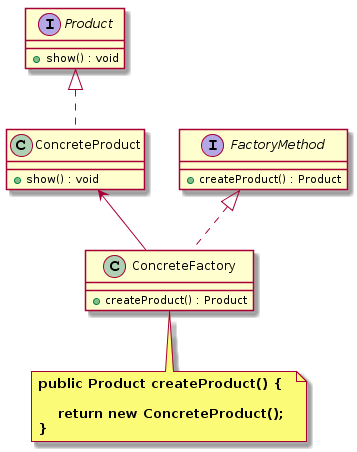
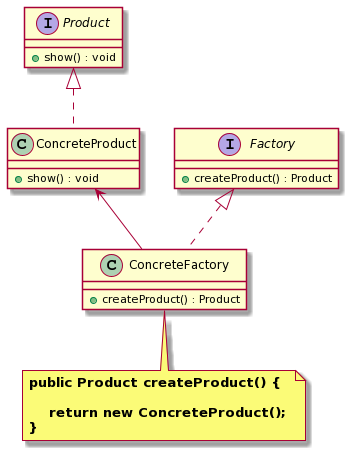
update

diff --git a/Codes/design-pattern/src/main/java/com/dj/pattern/simpleFactory/TestClient.java b/Codes/design-pattern/src/main/java/com/dj/pattern/simpleFactory/TestClient.java
@@ -1,8 +1,14 @@
 package com.dj.pattern.simpleFactory;
 
+import javax.crypto.Cipher;
+import javax.crypto.KeyGenerator;
+import javax.crypto.NoSuchPaddingException;
+import java.security.NoSuchAlgorithmException;
+import java.text.DateFormat;
+
 public class TestClient {
 
-	public static void main(String[] args) {
+	public static void main(String[] args) throws NoSuchAlgorithmException, NoSuchPaddingException {
 		Product product = null;
 		/*int type = 1;
 		if (type == 1) {
@@ -14,5 +20,12 @@ public class TestClient {
 		SimpleFactory simpleFactory = new SimpleFactory();
 		product = simpleFactory.createProduct(1);
 		product.show();
+
+		// Java加密技术，获取不同加密算法的密钥生成器
+		KeyGenerator keyGen = KeyGenerator.getInstance("DESede");
+
+		// 创建密码器
+		Cipher cp = Cipher.getInstance("DESede");
+
 	}
 }

diff --git a/Codes/design-pattern/src/main/java/com/dj/pattern/factoryMethod/TestClient.java b/Codes/design-pattern/src/main/java/com/dj/pattern/factoryMethod/TestClient.java
@@ -2,12 +2,15 @@ package com.dj.pattern.factoryMethod;
 
 import com.dj.pattern.simpleFactory.Product;
 
+import java.net.URLConnection;
+
 public class TestClient {
 
 	public static void main(String[] args) {
 		try {
+			// 具体工厂对象可以注入到Spring中，由Spring容器管理
 			Class<?> c = Class.forName("com.dj.pattern.factoryMethod.ConcreteFactoryA");
-			FactoryMethod  factory = (FactoryMethod)c.newInstance();
+			Factory factory = (Factory)c.newInstance();
 			Product product = factory.createProduct();
 			product.show();
 		} catch (ClassNotFoundException e) {
@@ -17,6 +20,8 @@ public class TestClient {
 		} catch (IllegalAccessException e) {
 			e.printStackTrace();
 		}
+
+		URLConnection
 		
 	}
 }

diff --git a/Codes/design-pattern/src/main/java/com/dj/pattern/singleton/TestSerializeSingleton.java b/Codes/design-pattern/src/main/java/com/dj/pattern/singleton/TestSerializeSingleton.java
@@ -29,11 +29,7 @@ public class TestSerializeSingleton {
 			ois = new ObjectInputStream(fis);
 			SerializeSingleton rSingleton = (SerializeSingleton) ois.readObject();
 			System.out.println("反序列化 hashCode: "+rSingleton.hashCode());
-		} catch (FileNotFoundException e) { 
-			e.printStackTrace();
-		} catch (IOException e) { 
-			e.printStackTrace();
-		} catch (ClassNotFoundException e) {
+		} catch (Exception e) {
 			e.printStackTrace();
 		}finally {
 			try {

diff --git a/Codes/design-pattern/src/main/java/com/dj/pattern/factoryMethod/ConcreteFactoryA.java b/Codes/design-pattern/src/main/java/com/dj/pattern/factoryMethod/ConcreteFactoryA.java
@@ -3,7 +3,7 @@ package com.dj.pattern.factoryMethod;
 import com.dj.pattern.simpleFactory.ConcreteProductA;
 import com.dj.pattern.simpleFactory.Product;
 
-public class ConcreteFactoryA implements FactoryMethod {
+public class ConcreteFactoryA implements Factory {
 
 	@Override
 	public Product createProduct() {

diff --git a/Codes/design-pattern/src/main/java/com/dj/pattern/factoryMethod/ConcreteFactoryB.java b/Codes/design-pattern/src/main/java/com/dj/pattern/factoryMethod/ConcreteFactoryB.java
@@ -3,7 +3,7 @@ package com.dj.pattern.factoryMethod;
 import com.dj.pattern.simpleFactory.ConcreteProductB;
 import com.dj.pattern.simpleFactory.Product;
 
-public class ConcreteFactoryB implements FactoryMethod {
+public class ConcreteFactoryB implements Factory {
 
 	@Override
 	public Product createProduct() {

diff --git a/Codes/design-pattern/src/main/java/com/dj/pattern/observer/WeatherData.java b/Codes/design-pattern/src/main/java/com/dj/pattern/observer/WeatherData.java
@@ -15,7 +15,7 @@ public class WeatherData implements Subject {
 	private float pressure;
 
 	public WeatherData() {
-		observers = new ArrayList<>();
+		observers = new ArrayList<>(10);
 	}
 
 	public void setMeasurements(float temperature, float humidity, float pressure) {

diff --git a/Codes/design-pattern/src/main/java/com/dj/pattern/factoryMethod/Factory.java b/Codes/design-pattern/src/main/java/com/dj/pattern/factoryMethod/Factory.java
@@ -10,7 +10,7 @@ import com.dj.pattern.simpleFactory.Product;
  * @date 2018年7月13日
  *
  */
-public interface FactoryMethod {
+public interface Factory {
 	
 	Product createProduct();
 }

diff --git a/notes/单例模式的逆向思考.md b/notes/单例模式的逆向思考.md
@@ -1,0 +1,130 @@
+中介者模式（`Mediator Pattern`）
+====================
+### **意图**
+> 定义一个中介对象来封装一系列对象之间的交互，使原有对象之间的耦合松散，且可以独立地改变它们之间的交互。
+
+中介者模式又叫调停模式，是迪米特法则的典型应用。
+
+### **动机**
+在现实生活中，常常会出现好多对象之间存在复杂的交互关系，这种交互关系常常是“网状结构”，它要求每个对象都必须知道它需要交互的对象。例如，每个人必须记住他（她）所有朋友的电话；而且，朋友中如果有人的电话修改了，他（她）必须告诉其他所有的朋友修改，这叫作“牵一发而动全身”，非常复杂。
+
+如果把这种“网状结构”改为“星形结构”的话，将大大降低它们之间的“耦合性”，这时只要找一个“中介者”就可以了。如前面所说的“每个人必须记住所有朋友电话”的问题，只要在网上建立一个每个朋友都可以访问的“通信录”就解决了。这样的例子还有很多，例如，你刚刚参力口工作想租房，可以找“房屋中介”。
+
+### **适用性**
+中介者模式通常适用于如下场景：
+- 当对象之间存在复杂的网状结构关系而导致依赖关系混乱且难以复用时。
+- 当想创建一个运行于多个类之间的对象，又不想生成新的子类时。
+
+### **结构**
+<div align="center"> <img src="images/37.mediator.png" width="480px"> </div><br>
+
+### **实现**
+```java
+// 抽象中介者
+public abstract class Mediator {
+	// 注册
+	public abstract void register(Colleague colleague);
+
+	// 转发
+	public abstract void relay(Colleague colleague);
+}
+
+// 具体中介者
+public class ConcreteMediator extends Mediator {
+
+	private List<Colleague> colleagues = new ArrayList<Colleague>();
+
+	@Override
+	public void register(Colleague colleague) {
+		if (!colleagues.contains(colleague)) {
+			colleagues.add(colleague);
+			colleague.setMedium(this);
+		}
+	}
+
+	@Override
+	public void relay(Colleague colleague) {
+		for (Colleague ob : colleagues) {
+			if (!ob.equals(colleague)) {
+				ob.receive();
+			}
+		}
+	}
+
+}
+
+//抽象同事类
+public abstract class Colleague {
+
+	protected Mediator mediator;
+
+	public void setMedium(Mediator mediator) {
+		this.mediator = mediator;
+	}
+
+	public abstract void receive();
+
+	public abstract void send();
+}
+
+// 具体同事类A
+public class ConcreteColleagueA extends Colleague {
+
+	@Override
+	public void receive() {
+		System.out.println("具体同事类A 接收到了请求。。。");
+	}
+
+	@Override
+	public void send() {
+		System.out.println("具体同事类A 发出了请求。。。");
+		// 请中介者转发
+		mediator.relay(this);
+	}
+
+}
+
+// 具体同事类B
+public class ConcreteColleagueB extends Colleague {
+
+	@Override
+	public void receive() {
+		System.out.println("具体同事类B 接收到了请求。。。");
+	}
+
+	@Override
+	public void send() {
+		System.out.println("具体同事类B 发出了请求。。。");
+		// 请中介者转发
+		mediator.relay(this);
+	}
+
+}
+
+// 测试客户端
+public class TestClient {
+
+	public static void main(String[] args) {
+		Mediator mediator = new ConcreteMediator();
+		ConcreteColleagueA colleagueA = new ConcreteColleagueA();
+		ConcreteColleagueB colleagueB = new ConcreteColleagueB();
+		mediator.register(colleagueA);
+		mediator.register(colleagueB);
+		colleagueA.send();
+		colleagueB.send();
+
+	}
+}
+```
+### **应用**
+- All scheduleXXX() methods of java.util.Timer
+- java.util.concurrent.Executor#execute()
+- submit() and invokeXXX() methods of  
+- java.util.concurrent.ExecutorService
+- java.util.concurrent.ScheduledExecutorService
+- java.lang.reflect.Method#invoke()
+
+### **联系**
+    描述此模式和其他模式之间的关系。
+
+

diff --git a/notes/13.工厂方法模式.md b/notes/13.工厂方法模式.md
@@ -1,9 +1,7 @@
 工厂方法模式（`Factory Method Pattern`）
 ====================
 ### **意图**
-> 定义了一个创建对象的接口，但由子类决定要实例化的类是哪一个。工厂方法让类把实例化**推迟**到子类。
-
-编写工厂类时不需要知道实际创建的产品是哪一个，选择了使用哪个子类，自然就决定了实际创建的产品是什么。
+> 工厂父类定义了创建产品对象的公共接口，而工厂子类负责生成具体的产品对象。工厂方法让类把实例化**推迟**到子类，由工厂子类来确定实例化哪一个具体产品类。
 
 ### **动机**
  在不修改具体工厂类的情况下引进新的产品，如果出现新的产品类型，只需要为这种新的产品创建一个具体的工厂类就可以获得该新产品的实例。这样可以将产品的“实现”从“使用”中解耦，相对于简单工厂模式更加符合“开闭原则”。
@@ -18,7 +16,6 @@
 <div align="center"> <img src="images/13.factoryMethod.png" width="280px"> </div><br>
 
 ### **实现**
-
 ```java
 // 抽象产品
 public interface Product {
@@ -33,11 +30,11 @@ public class ConcreteProductA implements Product {
     }
 }
 // 抽象工厂
-public interface FactoryMethod {	
+public interface Factory {	
 	Product createProduct();
 }
 // 具体工厂
-public class ConcreteFactoryA implements FactoryMethod {
+public class ConcreteFactoryA implements Factory {
 	@Override
 	public Product createProduct() {
 		System.out.println("具体工厂A，new了一个具体产品A");
@@ -45,10 +42,10 @@ public class ConcreteFactoryA implements FactoryMethod {
 	}
 }
 
-
 // 测试客户端
 public class TestClient {
     public static void main(String[] args) throws Exception {
+        // 具体工厂对象可以注入到Spring中，由Spring容器管理
         Class<?> c = Class.forName("com.dj.pattern.factoryMethod.ConcreteFactoryA");
         FactoryMethod  factory = (FactoryMethod)c.newInstance();
         Product product = factory.createProduct();
@@ -59,7 +56,7 @@ public class TestClient {
 ### **应用**
 
 
-### **联系**
-    简单工厂把全部的产品类，在一个工厂类中处理，而工厂方法是创建了一个框架，让具体的子工厂生产相应的产品，新增产品时，只需要增加对应的工厂，无须对原工厂进行任何修改，比简单工厂更有弹性。但是，每增加一个产品就要增加一个具体产品类和一个对应的具体工厂类，这无疑增加了系统的复杂度。
+### **总结**
+简单工厂把全部的产品类，在一个工厂类中处理，而工厂方法是创建了一个框架，让具体的子工厂生产相应的产品，新增产品时，只需要增加对应的工厂，无须对原工厂进行任何修改，比简单工厂更有弹性。但是，每增加一个产品就要增加一个具体产品类和一个对应的具体工厂类，这无疑增加了系统的复杂度。
 
 

diff --git a/notes/12.简单工厂模式.md b/notes/12.简单工厂模式.md
@@ -4,10 +4,12 @@
 > 定义一个工厂类来负责创建出不同产品类的实例。 
 
 ### **动机**
- 当代码使用大量的具体类时，一旦加入新的具体类，就必须修改代码。也就是说，代码并非"对修改关闭"。我们可以用简单工厂将实例化具体类的代码（会变化的方面）从应用中抽离，或封装起来。
+ 当代码使用大量的具体类时，一旦加入新的具体类，就必须修改代码。我们可以用简单工厂将实例化具体类的代码（会变化的方面）从应用中抽离或封装起来。
+
+ 由工厂类来处理创建对象的细节。只需要传入一个正确的参数，就可以获取你所需要的对象，客户端而无须知道其创建细节。
 
 ### **适用性**
-    描述模式可以用在什么场合。
+适用于创建对象较少的业务场景。因为需要创建的对象越多，工厂类的职责越重，代码的复杂度也会随之提高，不利于系统的扩展和维护。
 
 ### **结构**
 <div align="center"> <img src="images/12.simpleFactory.png" width="360px"> </div><br>
@@ -36,7 +38,7 @@ public class ConcreteProductB implements Product {
     }
 }
 
-// 简单工厂 
+// 简单工厂，处理创建对象的细节 
 public class SimpleFactory {
 
     // 若用静态方法定义的简单工厂称为静态工厂
@@ -52,7 +54,6 @@ public class SimpleFactory {
 // 测试客户端
 public class TestClient {
     public static void main(String[] args) {
-
         /*int type = 1;
         Product product;
         if (type == 1) {
@@ -71,9 +72,16 @@ public class TestClient {
 ```
 
 ### **应用**
-
+```
+// Java加密技术，获取不同加密算法的密钥生成器
+KeyGenerator keyGen = KeyGenerator.getInstance("DESede");
+// 创建密码器
+Cipher cp = Cipher.getInstance("DESede");
+```
     
-### **联系**
+### **总结**
     工厂方法模式、抽象工厂模式。
 
 
+# 参考资料
+- `javax.crypto.KeyGenerator`

diff --git a/notes/11.单例模式.md b/notes/11.单例模式.md
@@ -235,11 +235,9 @@ protected void addSingleton(String beanName, Object singletonObject) {
 滥用单例可能会带来尴尬的线上问题，如：为了节省资源将数据库连接池对象设计为单例类，可能会导致共享连接池对象的程序过多而出现连接池溢出（测试环境往往不容易发现）。
 
 
-
 # 参考资料
 - `java.lang.Runtime`
 - [有关“双重检查锁定失效”的说明](http://ifeve.com/doublecheckedlocking/)
-- [深入分析Java的序列化与反序列化](https://www.hollischuang.com/archives/1140)
 - [Java对象的序列化（Serialization）和反序列化详解](https://blog.csdn.net/yaomingyang/article/details/79321939)
 - [深度分析Java的枚举类型—-枚举的线程安全性及序列化问题](https://www.hollischuang.com/archives/197)
 - [Implementing Singleton with an Enum (in Java)](https://stackoverflow.com/questions/26285520/implementing-singleton-with-an-enum-in-java)

diff --git a/notes/PATTERN_UML_CODE.md b/notes/PATTERN_UML_CODE.md
@@ -83,7 +83,7 @@ interface Product {
     + show() : void
 }
 
-interface FactoryMethod {
+interface Factory {
     + createProduct() : Product
 }
 
@@ -95,7 +95,7 @@ Product <|.. ConcreteProduct
 class ConcreteFactory {
    + createProduct() : Product
 }
-FactoryMethod <|.. ConcreteFactory
+Factory <|.. ConcreteFactory
 
 ConcreteProduct <-- ConcreteFactory
 
